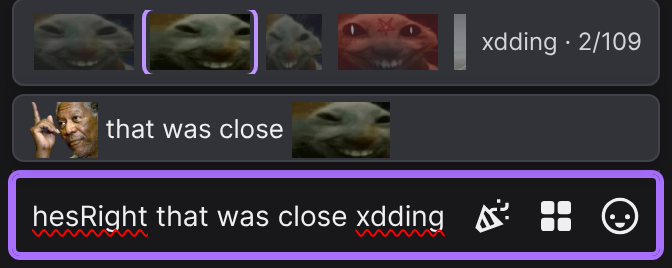
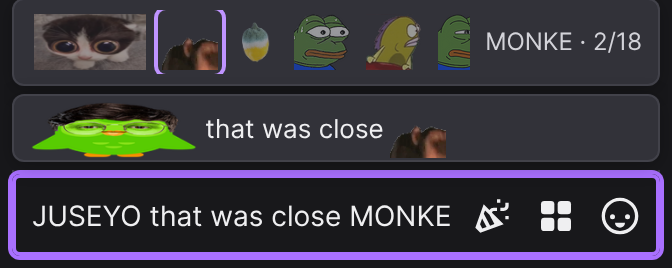
README: shorter how-to, typing screenshot without spellcheck marks
- "How to use" now says only how to use each feature; the Details
  section is gone.
- The typing screenshot is retaken with spellcheck off, so there are no
  red underlines under the emote names.

Changed region(s): [[0.0312, 0.0299, 0.9688, 0.2985], [0.0312, 0.3582, 0.6875, 0.597], [0.0312, 0.7463, 0.6875, 0.8955]]

diff --git a/README.md b/README.md
@@ -41,47 +41,33 @@ Tampermonkey and Violentmonkey update EmoteKit on their own. In Userscripts, ope
 
 ### Emote picker
 
-Click the grid button next to the chat box. The picker lists:
-
-1. **Favourites**, in the order you added them.
-2. **Popular here:** the emotes this channel's chat uses most. EmoteKit counts them as chat comes in (once per message), and older counts fade over a few weeks.
-3. **New in this channel:** 7TV emotes the channel added in the last 14 days.
-4. Every channel and global emote, by service.
-
-Search shows names that start with what you type first, then favourites and popular ones. Click an emote, or press Enter in the search box, to add it to your message. Hover an emote to see it larger, with its name and service.
+Click the grid button next to the chat box. It shows your favourites, the emotes this channel uses most, emotes the channel added recently, then every emote. Search at the top. Click an emote, or press Enter in the search, to add it to your message.
 
 ### Favourites and hiding
 
 <img src="docs/menu.png" width="220" alt="The menu when you click an emote in chat: Favourite and Hide">
 
-- **In chat:** click an emote to favourite or hide it.
-- **In the picker:** hover an emote and click the star in its corner. Favourites have a gold star in the rest of the picker.
-- **Hidden emotes** show as their name in chat. Hover the name to highlight it; click it to show the emote again. The picker's **Hide emotes** button lists your hidden emotes and hides or shows any emote you click.
+- Click an emote in chat to favourite or hide it.
+- In the picker, hover an emote and click the star to favourite it.
+- A hidden emote shows as its name in chat. Click the name to show it again.
+- **Hide emotes** in the picker lists your hidden emotes.
 
 ### Typing
 
 <img src="docs/typing.png" width="336" alt="The Tab completion strip and the message preview above the chat box">
 
-- **Tab completion:** type the start of an emote name and press Tab. Tab again goes to the next match, Shift+Tab to the previous one. Matching ignores case, and favourites and the channel's most used emotes come first. A strip above the chat box shows the matches and your position, for example `LOL · 2/12`.
-- **Message preview:** while you type a message with emotes, a line above the chat box shows how it will look.
+- **Tab completion:** type the start of an emote name and press Tab. Tab again goes to the next match, Shift+Tab to the previous one.
+- **Message preview:** while you type, your message shows above the chat box with emotes.
 
 ### Settings
 
 Click the gear in the picker.
 
-- **Animated emotes:** Auto, Always, On hover or Never. Auto plays animations unless Reduce motion is on in macOS's accessibility settings; then they play when you hover them. Still emotes download much less.
-- **Emote size in chat:** Small, Normal or Large.
-- **Services:** turn BetterTTV, FrankerFaceZ or 7TV off. A service that is off is not contacted.
-- **Collapse repeated emotes** (off by default): `KEKW KEKW KEKW` shows as one KEKW ×3.
-- **Preview my message with emotes** (on by default).
-
-### Details
-
-- Matching is exact and case-sensitive. If two emotes share a name, a channel emote is used over a global one, and 7TV over BTTV over FFZ.
-- Zero-width emotes (for example 7TV `RainTime`) are drawn on top of the emote before them.
-- Copied chat text keeps the emote names.
-- Emotes reload when you switch channels.
-- Other viewers see your emotes as images if they use EmoteKit or a BetterTTV, FrankerFaceZ or 7TV extension.
+- **Animated emotes:** Auto, Always, On hover or Never.
+- **Emote size:** Small, Normal or Large.
+- **Services:** turn BetterTTV, FrankerFaceZ or 7TV on or off.
+- **Collapse repeated emotes:** `KEKW KEKW KEKW` shows as one KEKW ×3.
+- **Message preview:** on or off.
 
 ## Privacy
 
